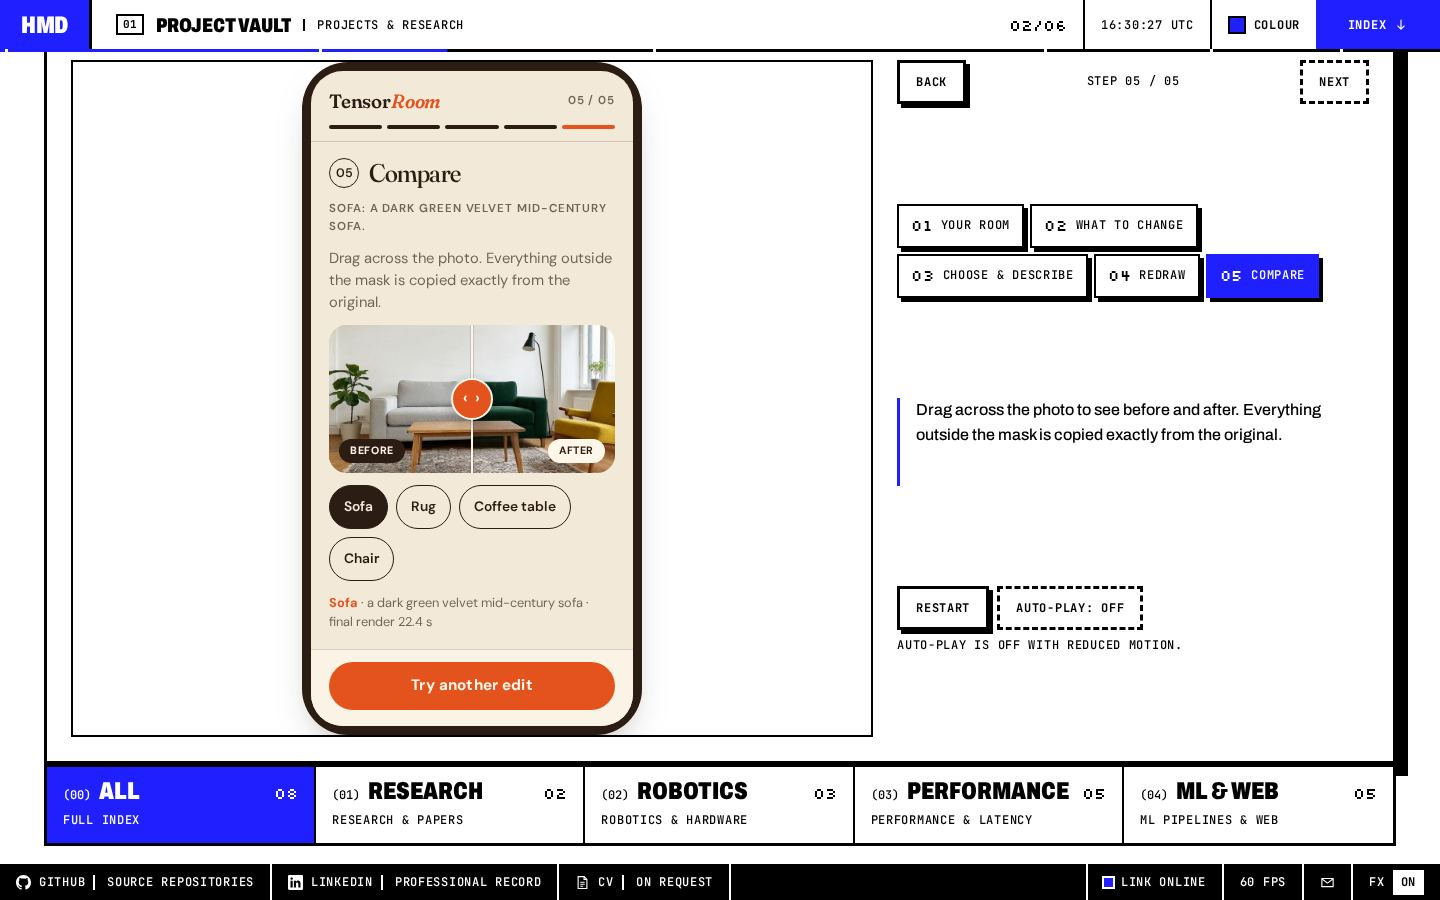
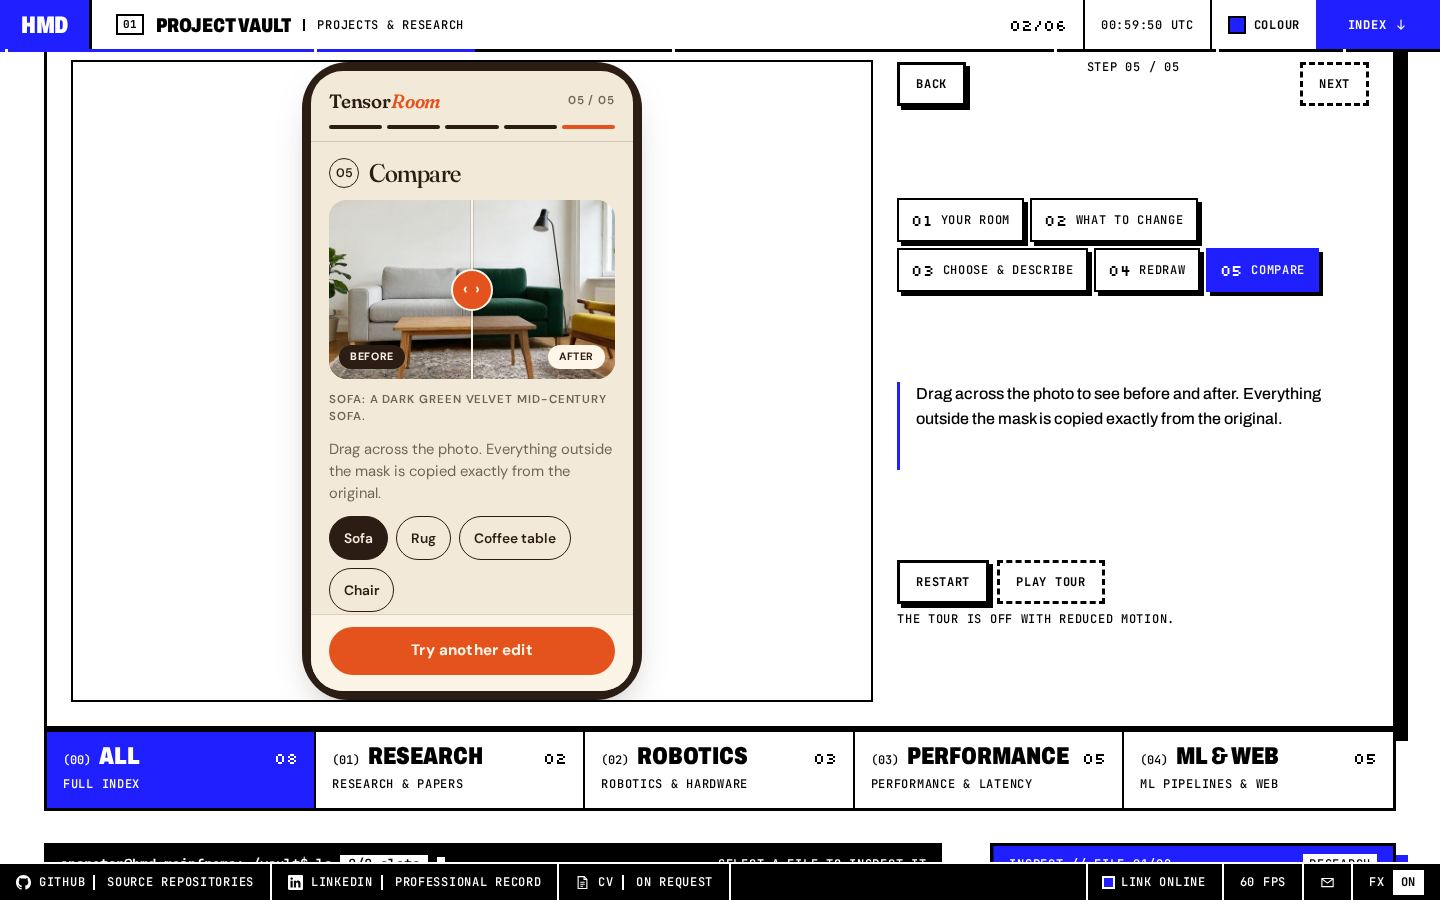
Update the README previews for the restyled LocalMind demo and tours
Retake every preview screenshot, and add two mid-tour shots that show
the pointer, highlight and label.

diff --git a/README.md b/README.md
@@ -10,9 +10,18 @@ My portfolio site. This branch (`demo`) adds a **Featured builds** block to the 
 |---|---|
 | <img src="docs/preview/desktop-0-featured.jpg" alt="Featured builds block with LocalMind and TensoRoom cards on desktop" width="560"> | <img src="docs/preview/phone-0-featured.jpg" alt="Featured builds block on a phone" width="220"> |
 
+### Play tour
+
+Press **Play tour** and a pointer walks through each step: it glides to each part of the screen, highlights it, labels it and presses it. Steps fade between each other, and a progress bar shows where the tour is. With reduced motion or the site's FX switch off, the tour is replaced by manual stepping.
+
+| | |
+|---|---|
+| <img src="docs/preview/desktop-localmind-tour.jpg" alt="LocalMind tour highlighting the open_document tool call with a label" width="560"> | <img src="docs/preview/phone-tensoroom-tour.jpg" alt="TensoRoom tour on a phone, pointer on the prompt box with a label" width="220"> |
+| <sub>LocalMind, step 03 mid-tour</sub> | <sub>TensoRoom on a phone, step 03 mid-tour</sub> |
+
 ### LocalMind demo
 
-Six steps: the chat home screen, pasting a job advert, the tool calls, the answer with a PDF, the knowledge base sections, and messaging the PC from a phone.
+Styled like the current app, with paper, ink and a blue accent. Six steps: the chat home screen, pasting a job advert, the tool calls, the answer with a PDF, the knowledge base sections, and messaging the PC from a phone.
 
 | | |
 |---|---|
@@ -26,7 +35,7 @@ Six steps: the chat home screen, pasting a job advert, the tool calls, the answe
 
 ### TensoRoom demo
 
-Five steps, in the app's own phone layout: your room, what to change, choose and describe, redraw, and a before/after comparison using real renders.
+Five steps, in the app's own phone layout, with the picture box in the same place on every step: your room, what to change, choose and describe, redraw, and a before/after comparison using real renders.
 
 | | | | |
 |---|---|---|---|
@@ -38,9 +47,9 @@ Five steps, in the app's own phone layout: your room, what to change, choose and
 
 ## Where it lives
 
-- `src/components/featured/`: the block (`FeaturedProjects.js`), the step engine (`DemoStage.js`) and one module per demo in `demos/`.
+- `src/components/featured/`: the block (`FeaturedProjects.js`), the step and tour engine (`DemoStage.js`, `DemoCursor.js`) and one module per demo in `demos/`.
 - `public/featured/tensoroom/`: the room photos the TensoRoom demo uses.
-- To feature another project, add a `featured` entry to it in `src/components/projectdata.js` and register a demo module in `FeaturedProjects.js`.
+- To feature another project, add a `featured` entry to it in `src/components/projectdata.js` and register a demo module in `FeaturedProjects.js`. A step's `tour` lists the `data-tour` targets the pointer visits (the contract is at the top of `DemoStage.js`).
 - `docs/preview/`: the screenshots above. They aren't part of the built site.
 
 ---
